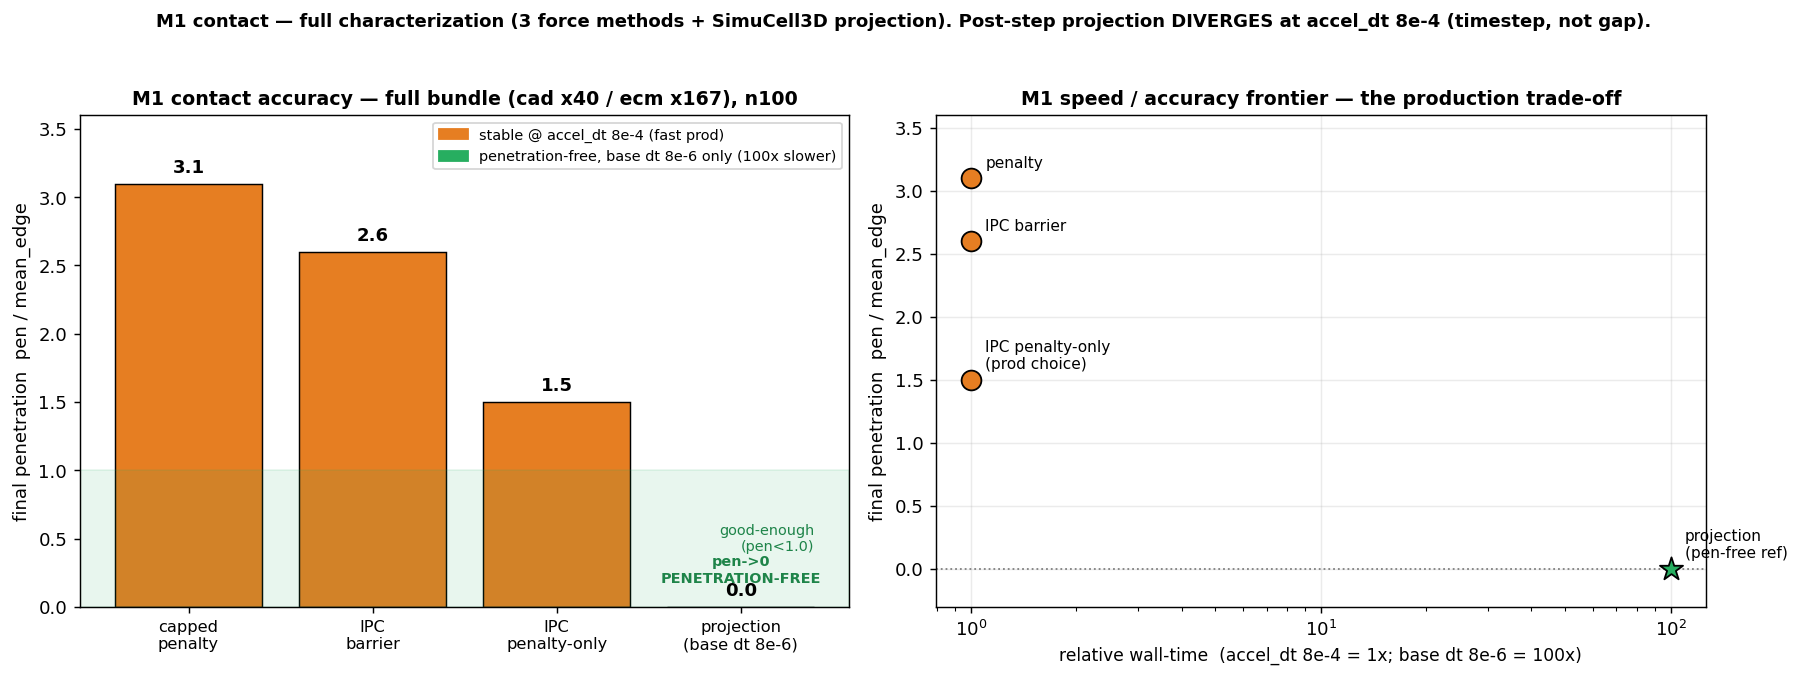
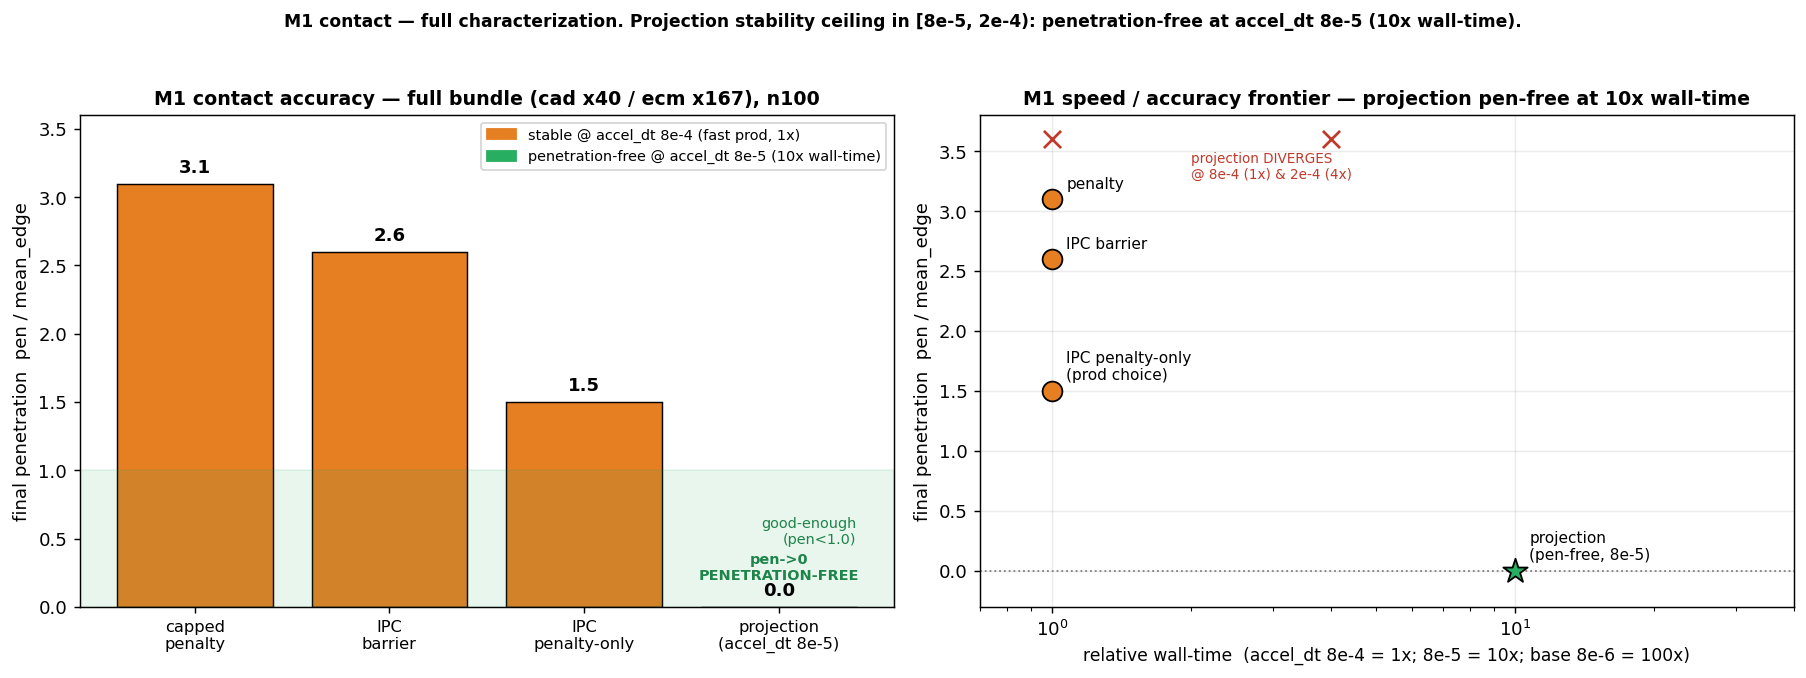
fix(phase-c): projection stability ceiling = [8e-5, 2e-4) -> pen-free at 10x wall-time (not 4x)
Bracket final: accel_dt 8e-5 (10x base) STABLE past step 2400 (through the 8e-4 divergence point);
2e-4 (25x base) DIVERGED V/V0->7.5 @1826; 8e-4 V/V0->1329. So projection penetration-free at
accel_dt 8e-5 = 10x production wall-time. Corrected consolidation doc + frontier figure.

diff --git a/ffn_sim/docs/v2_audit/PHASE_C_CONSOLIDATION_2026-06-24.md b/ffn_sim/docs/v2_audit/PHASE_C_CONSOLIDATION_2026-06-24.md
@@ -53,9 +53,11 @@ frontier (n100, full cad×40/ecm×167 bundle): figure `figs/m1_contact_method_fr
   critical #1 (face-normal direction) was NOT applied — judgment over deference (the closest-feature
   r_vec direction is correct for edge/vertex contacts; self-test-proven).
 - **Stability ceiling = the timestep, not the gap.** A near-zero gap still diverged at accel_dt 8e-4;
-  the cause is the large implicit timestep (Δx/dt blows up). Diagnostic bracket: stable at **8e-5 (10×
-  base) and 2e-4 (25× base)**, diverges at 8e-4 (100× base). So the projection is penetration-free at
-  **~4× the production wall-time** (accel_dt ~2e-4), not the 100× initially feared.
+  the cause is the large implicit timestep (Δx/dt blows up). Diagnostic bracket: **stable at 8e-5 (10×
+  base, held past step 2400 — through the divergence point of the larger steps), diverges at 2e-4 (25×
+  base, V/V0→7.5 by step 1826) and at 8e-4 (100× base, V/V0→1329).** So the stability ceiling sits in
+  [8e-5, 2e-4): the projection is penetration-free at **accel_dt 8e-5 ≈ 10× the production wall-time**
+  (not the 100× of the base dt, and not as low as 2e-4 which diverges).
 
 **→ PI decision (fork, low-stakes):** accept **IPC penalty-only (pen 1.5)** as the production contact
 (de-cohesion runs are A/A0-hull-robust at this pen), with the **projection at accel_dt ~2e-4** as the
